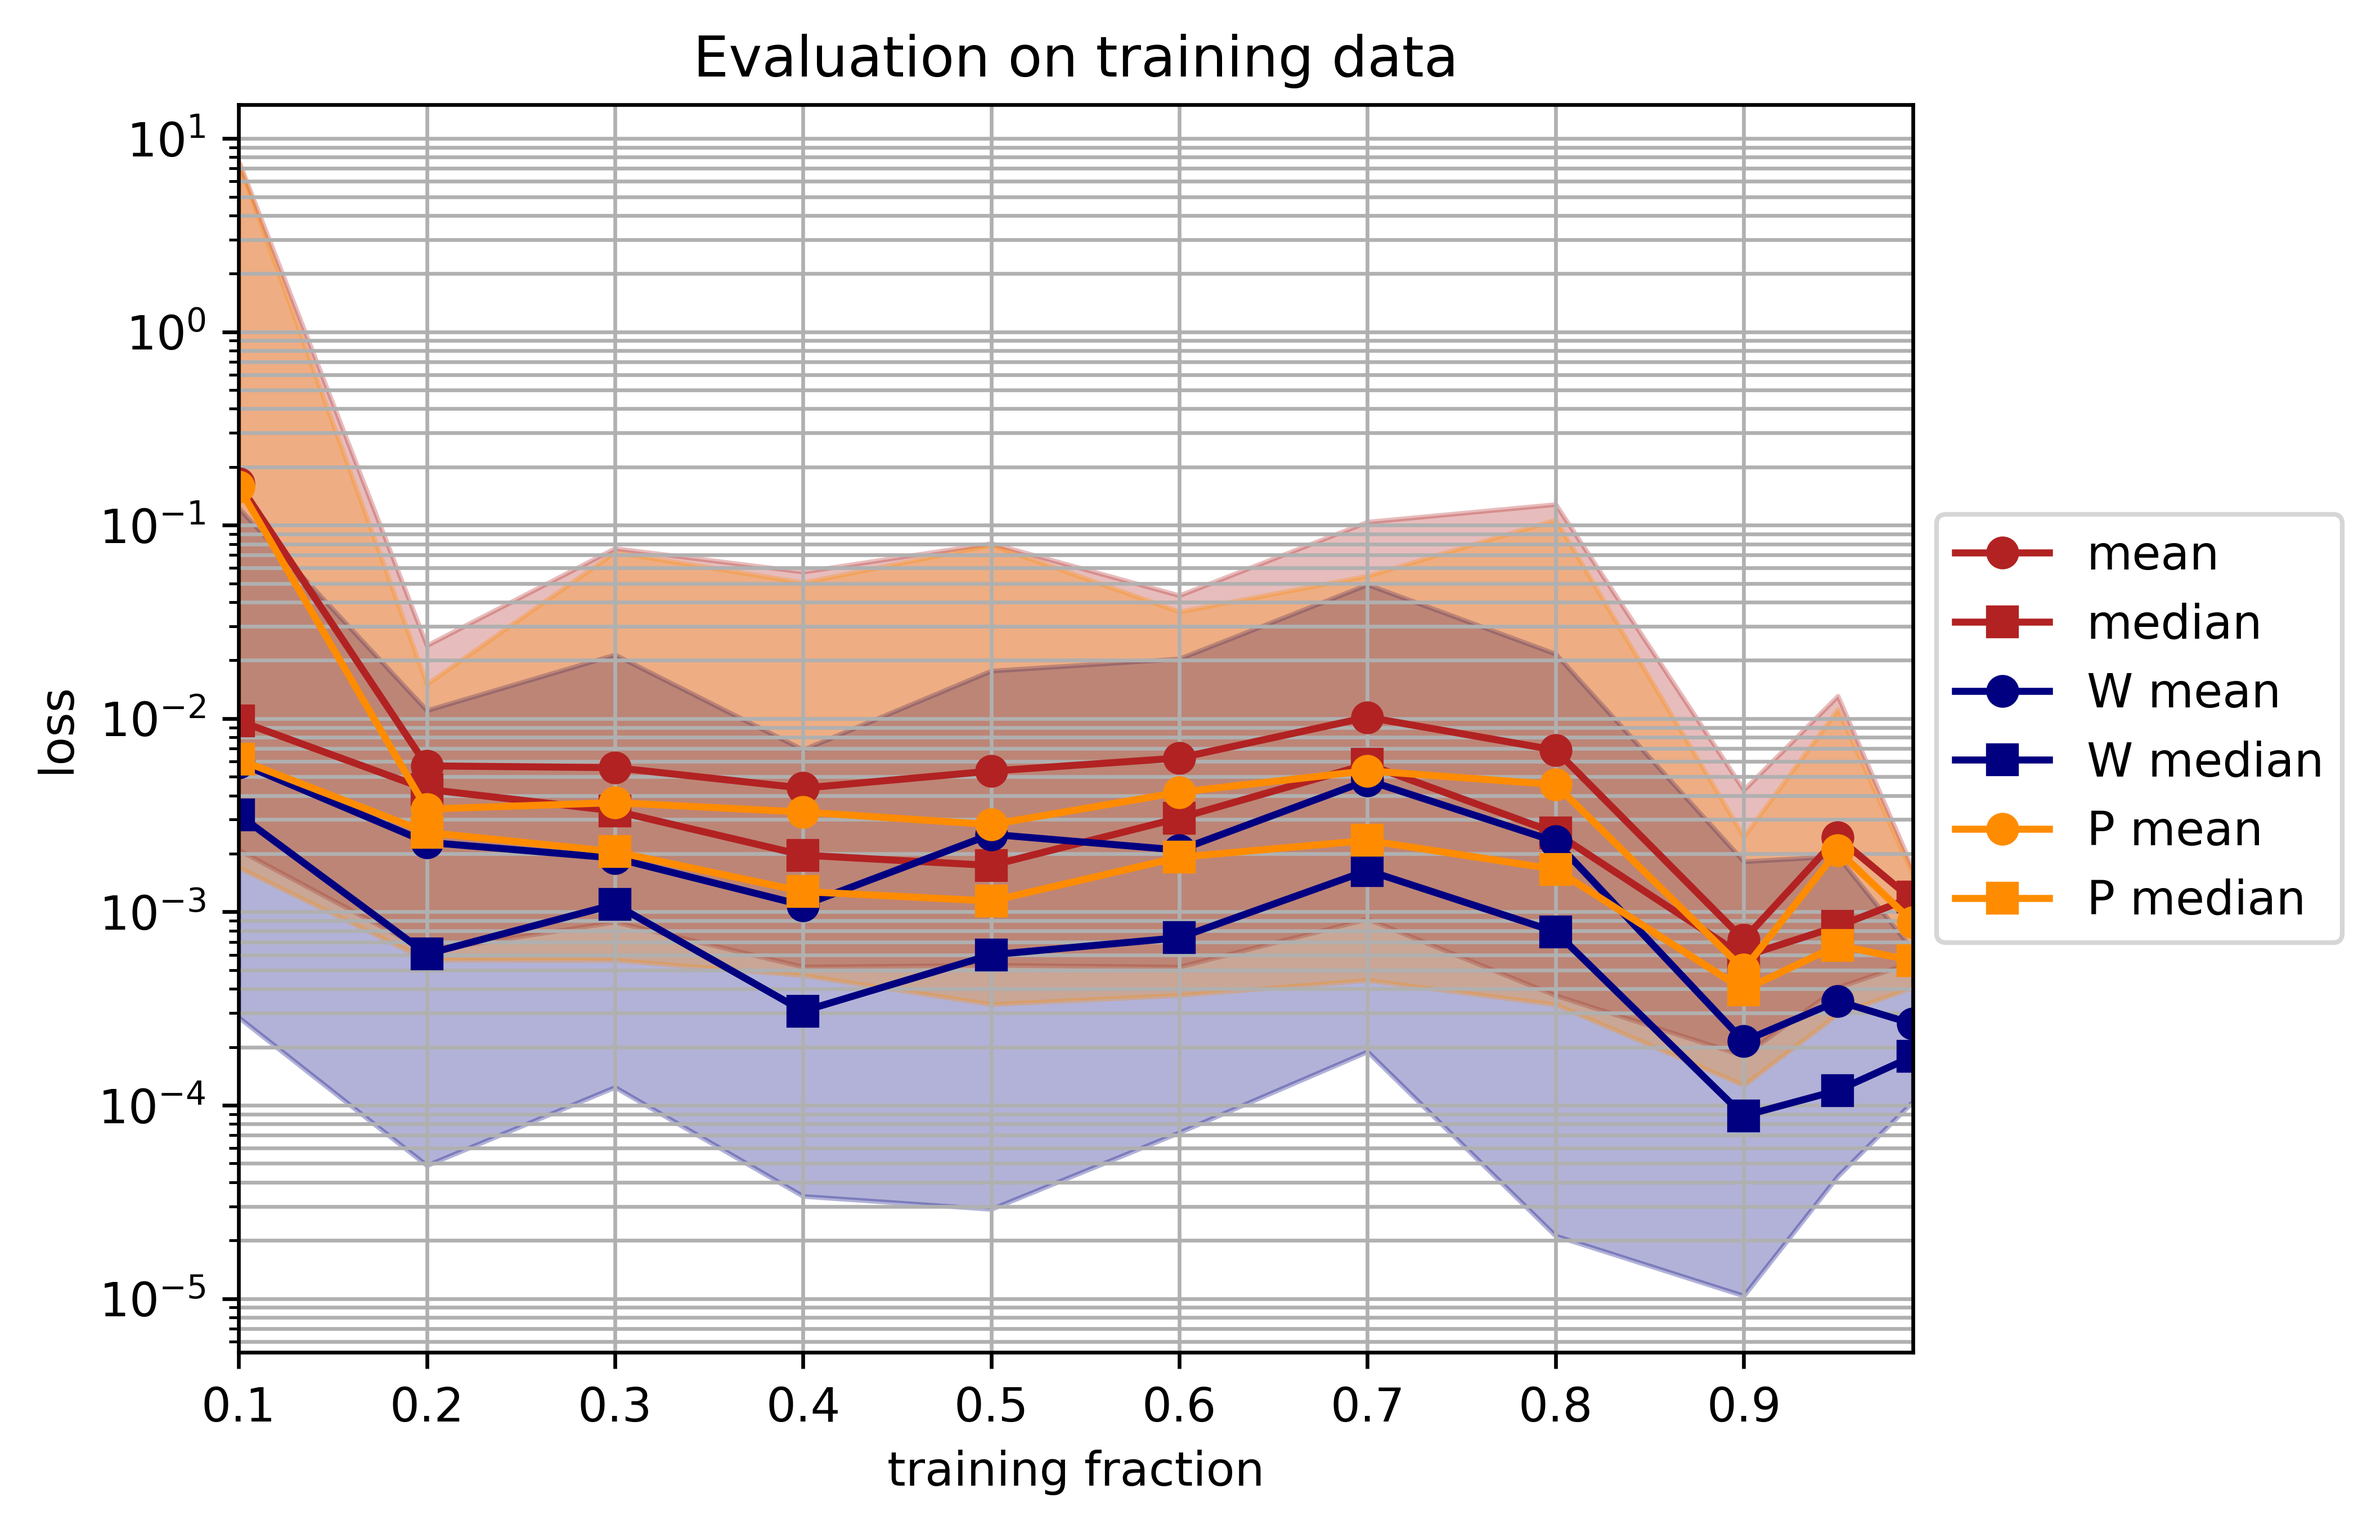
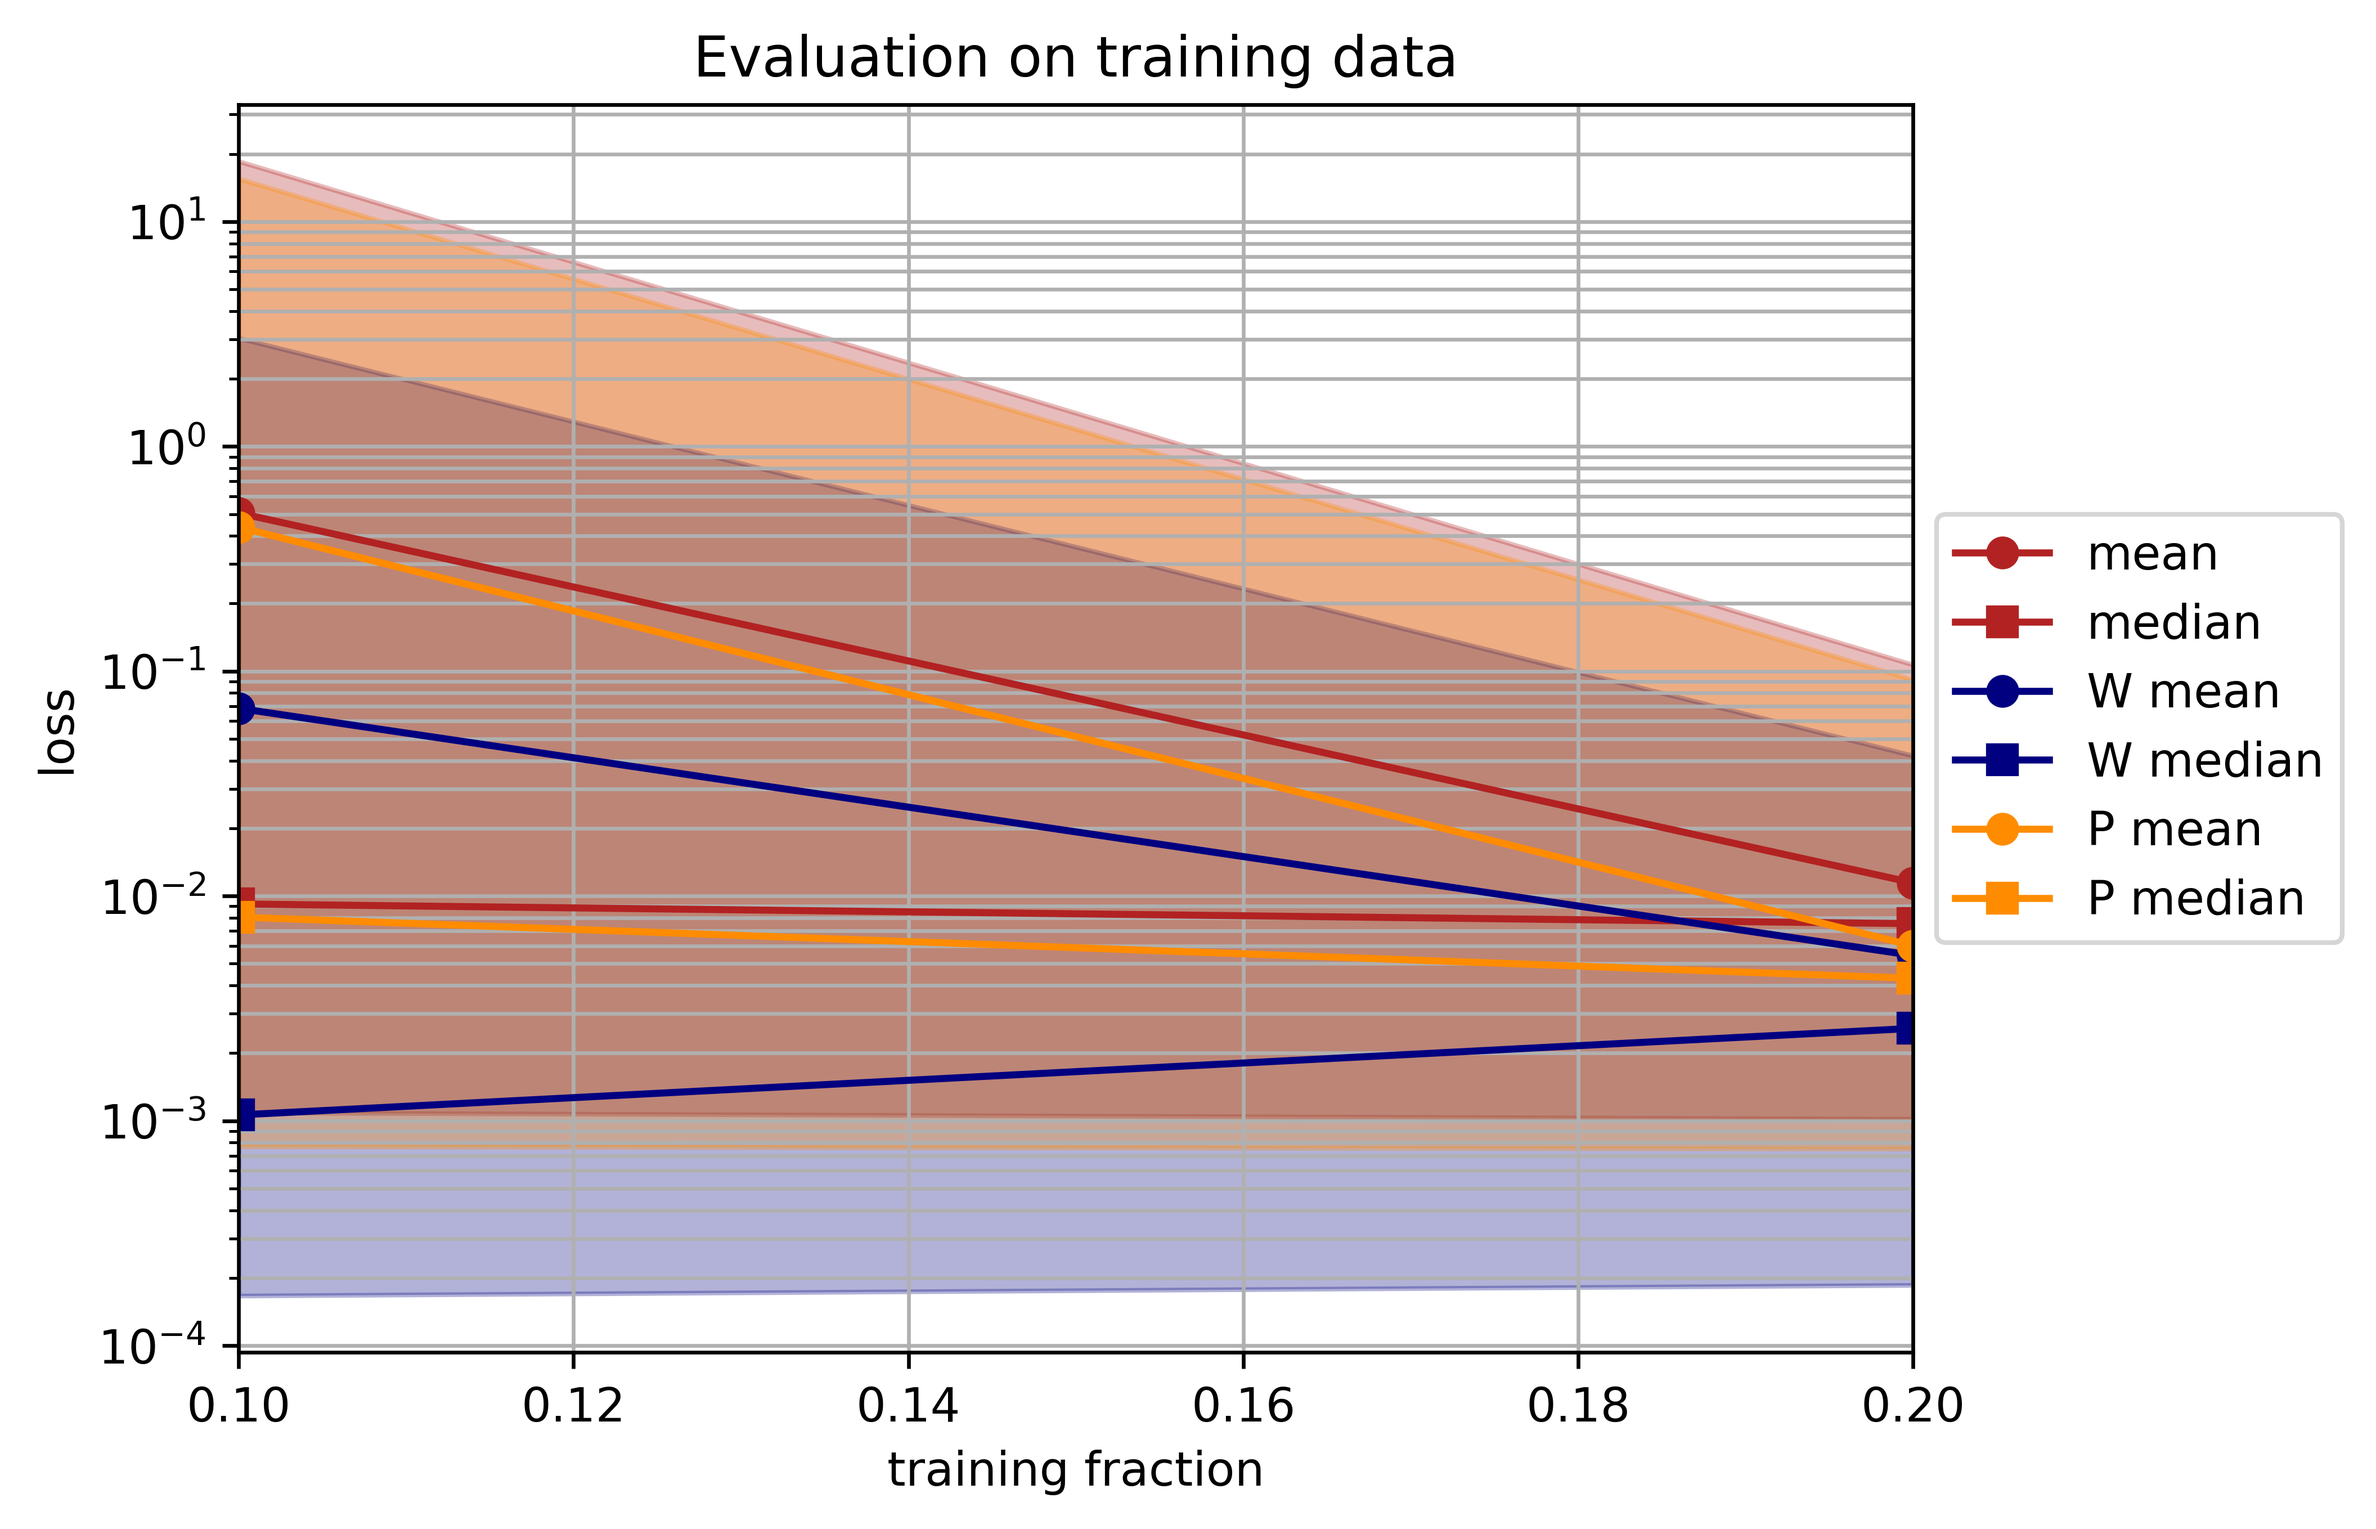
Fixed plot issue
The plots for training and testing loss used to show the same content,
because of an error in the code. For better readibility parts of the
post processing and the evalutation was moved to functions.

Results for the losses for different test train splits can now be
imported from csv files and plotted

diff --git a/02_hyperelasticity_I/main_concentric_sampling.py b/02_hyperelasticity_I/main_concentric_sampling.py
@@ -20,28 +20,38 @@ import tensorflow as tf
 import pandas as pd
 import datetime
 now = datetime.datetime.now
+print("Num GPUs Available: ", len(tf.config.list_physical_devices('GPU')))
+print(tf.keras.backend.floatx())
+tf.keras.backend.set_floatx('float64')
 
 # %% Own modules
 import modules.data as ld
 import modules.training as training
+import modules.plots as pl
 
 # %%
 '''
-Training
+Parameter definition
 
 '''
-
+#
 
 FNUM = 100
-test_train_split = np.array([0.1,0.2,0.3,0.4,0.5,0.6,0.7,0.8,0.9,0.95,0.99])
-#test_train_split = np.array([0.1])
-JMAX = 5
+#test_train_split = np.array([0.1,0.2,0.3,0.4,0.5,0.6,0.7,0.8,0.9,0.95,0.99])
+test_train_split = np.array([0.1, 0.2])
+JMAX = 3
 t_type = 'PhysicsAugmented' # 'Naive'
 
 loss_weighting = True
 loss_weights = [1, 1] # only used for physics augmented training
 epochs = 5000
 verbose = 0
+
+#%%
+'''
+Training
+
+'''
 
 NUMSPLITS = test_train_split.size
 
@@ -82,6 +92,8 @@ for i, split in enumerate(test_train_split):
         train_losses[i, j][:,0] = np.sum(train_losses[i,j][:,1:3], axis=1)
         test_losses[i, j][:,0] = np.sum(test_losses[i,j][:,1:3], axis=1)
 
+#%%
+# concat all splits because we cant to compoute the average loss of all runs
 tmp = np.array([np.concatenate(train_losses[i,:]) for i in range(NUMSPLITS)])
 mean_train_losses = np.array([np.mean(tmp[i], axis=0) for i in range(NUMSPLITS)])
 median_train_losses = np.array([np.median(tmp[i], axis=0) for i in range(NUMSPLITS)])
@@ -97,98 +109,56 @@ min_test_losses = np.array([np.min(tmp[i], axis=0) for i in range(NUMSPLITS)])
 t2 = now()
 print('it took', t2 - t1, '(sec) to calibrate and evaluate all models')
 
-#%%
-'''
-Plots
-
-'''
-
-alpha = 0.3
-
-# training
-fig = plt.figure(dpi=600)
-if t_type == 'PhysicsAugmented':
-    plt.semilogy(test_train_split,mean_train_losses[:,0], color='firebrick', marker='o', label='mean')
-    plt.semilogy(test_train_split,median_train_losses[:,0], color='firebrick', marker='s', label='median')
-    plt.fill_between(test_train_split, max_train_losses[:,0], min_train_losses[:,0], color='firebrick', alpha=alpha)
-    
-    plt.semilogy(test_train_split,mean_train_losses[:,1], color='navy', marker='o', label='W mean')
-    plt.semilogy(test_train_split,median_train_losses[:,1], color='navy', marker='s', label='W median')
-    plt.fill_between(test_train_split, max_train_losses[:,1], min_train_losses[:,1], color='navy', alpha=alpha)
-
-    plt.semilogy(test_train_split,mean_train_losses[:,2], color='darkorange', marker='o', label='P mean')
-    plt.semilogy(test_train_split,median_train_losses[:,2], color='darkorange', marker='s', label='P median')
-    plt.fill_between(test_train_split, max_train_losses[:,2], min_train_losses[:,2], color='darkorange', alpha=alpha)
-
-else:
-    plt.semilogy(test_train_split, mean_train_losses[:,0], color='firebrick', marker='o', label='mean')
-    plt.semilogy(test_train_split, median_train_losses[:,0], color='firebrick', marker='s', label='median')
-    plt.fill_between(test_train_split, max_train_losses[:,0], min_train_losses[:,0], color='firebrick', alpha=alpha)
-plt.title('Evaluation on training data')
-plt.xlabel('training fraction')
-plt.ylabel('loss')
-plt.xlim(np.min(test_train_split), np.max(test_train_split))
-plt.grid(True, which='both')
-plt.legend(loc='center left', bbox_to_anchor=(1, 0.5))
-plt.savefig('images/training_loss.png', dpi=fig.dpi, bbox_inches='tight')
-
-
-# test
-fig = plt.figure(dpi=600)
-if t_type == 'PhysicsAugmented':
-    plt.semilogy(test_train_split,mean_test_losses[:,0], color='firebrick', marker='o', label='mean')
-    plt.semilogy(test_train_split,median_test_losses[:,0], color='firebrick', marker='s', label='median')
-    plt.fill_between(test_train_split, max_test_losses[:,0], min_test_losses[:,0], color='firebrick', alpha=alpha)
-    
-    plt.semilogy(test_train_split,mean_test_losses[:,1], color='navy', marker='o', label='W mean')
-    plt.semilogy(test_train_split,median_test_losses[:,1], color='navy', marker='s', label='W median')
-    plt.fill_between(test_train_split, max_test_losses[:,1], min_test_losses[:,1], color='navy', alpha=alpha)
-
-    plt.semilogy(test_train_split,mean_test_losses[:,2], color='darkorange', marker='o', label='P mean')
-    plt.semilogy(test_train_split,median_test_losses[:,2], color='darkorange', marker='s', label='P median')
-    plt.fill_between(test_train_split, max_test_losses[:,2], min_test_losses[:,2], color='darkorange', alpha=alpha)
-
-else:
-    plt.semilogy(test_train_split, mean_test_losses[:,0], color='firebrick', marker='o', label='mean')
-    plt.semilogy(test_train_split, median_test_losses[:,0], color='firebrick', marker='s', label='median')
-    plt.fill_between(test_train_split, max_test_losses[:,0], min_test_losses[:,0], color='firebrick', alpha=alpha)
-
-plt.title('Evaluation on training data')
-plt.xlabel('training fraction')
-plt.ylabel('loss')
-plt.xlim(np.min(test_train_split), np.max(test_train_split))
-plt.grid(True, which='both')
-plt.legend(loc='center left', bbox_to_anchor=(1, 0.5))
-plt.savefig('images/training_loss.png', dpi=fig.dpi, bbox_inches='tight')
-plt.savefig('images/test_loss.png', dpi=fig.dpi, bbox_inches='tight')
-
-plt.show()
 
 # %%
 """
 Save results to file
 
 """
-df_train = pd.concat([pd.DataFrame(mean_train_losses),
-                    pd.DataFrame(median_train_losses),
-                    pd.DataFrame(min_train_losses),
-                    pd.DataFrame(max_train_losses)],
-                    keys=('mean', 'median', 'min', 'max'))
-df_train.columns = ['total', 'function', 'gradient']
-df_train['split'] = np.tile(test_train_split, 4)
-df_train = df_train[['split', 'total', 'function', 'gradient']]
 
-df_test = pd.concat([pd.DataFrame(mean_test_losses),
-                    pd.DataFrame(median_test_losses),
-                    pd.DataFrame(min_test_losses),
-                    pd.DataFrame(max_test_losses)],
+def save_to_df(means, medians, mins, maxs):
+    df = pd.concat([pd.DataFrame(means),
+                    pd.DataFrame(medians),
+                    pd.DataFrame(mins),
+                    pd.DataFrame(maxs)],
                     keys=('mean', 'median', 'min', 'max'))
-df_test.columns = ['total', 'function', 'gradient']
-df_test['split'] = np.tile(test_train_split, 4)
-df_test = df_train[['split', 'total', 'function', 'gradient']]
+    df.columns = ['total', 'function', 'gradient']
+    df['split'] = np.tile(test_train_split, 4)
+    df = df[['split', 'total', 'function', 'gradient']]
+    return df
+
+df_train = save_to_df(mean_train_losses,
+                        median_train_losses,
+                        min_train_losses,
+                        max_train_losses)
+
+df_test = save_to_df(mean_test_losses,
+                        median_test_losses,
+                        min_test_losses,
+                        max_test_losses)
 
 df_train.to_csv('out/train_losses.csv', index=False)
 df_test.to_csv('out/test_losses.csv', index=False)
+
+# %%
+'''
+Plot losses from csv file
+
+'''
+
+df_train = pd.read_csv('out/train_losses.csv')
+df_test = pd.read_csv('out/test_losses.csv')
+
+if t_type  == 'PhysicsAugmented':
+    title = 'Evaluation on training data'
+    pl.plot_loss_over_train_split_physics_augmented(df_train, title=title, fname='train_loss')
+    title = 'Evaluation on test data'
+    pl.plot_loss_over_train_split_physics_augmented(df_test, title=title, fname='test_loss')
+elif t_type == 'Naive':
+    title = 'Evaluation on training data'
+    pl.plot_loss_over_train_split_naive(df_train, title=title, fname='train_loss')
+    title = 'Evaluation on test data'
+    pl.plot_loss_over_train_split_naive(df_test, title=title, fname='test_loss')
 
 # %%
 """

diff --git a/02_hyperelasticity_I/modules/plots.py b/02_hyperelasticity_I/modules/plots.py
@@ -307,3 +307,53 @@ def plot_calibration_loss(h):
     plt.grid(which='both')
     plt.legend(loc='center left', bbox_to_anchor=(1, 0.5))
     fig.savefig('images/loss.png', dpi=fig.dpi, bbox_inches='tight')
+
+def plot_loss_over_train_split_physics_augmented(df, title, fname):
+    ''' Plots the mean, median, maximum and minimum loss over the test training split
+    for physics augmented training '''
+    # settings
+    alpha = 0.3
+
+    NUMSPLITS = int(df.split.size / 4)
+    fig = plt.figure(dpi=600)
+    plt.semilogy(df.split[:NUMSPLITS],df.total[:NUMSPLITS], color='firebrick', marker='o', label='mean')
+    plt.semilogy(df.split[:NUMSPLITS],df.total[NUMSPLITS:2 * NUMSPLITS], color='firebrick', marker='s', label='median')
+    plt.fill_between(df.split[:NUMSPLITS], df.total[2 * NUMSPLITS: 3 * NUMSPLITS], df.total[3 * NUMSPLITS:], color='firebrick', alpha=alpha)
+    
+    plt.semilogy(df.split[:NUMSPLITS],df.function[:NUMSPLITS], color='navy', marker='o', label='W mean')
+    plt.semilogy(df.split[:NUMSPLITS],df.function[NUMSPLITS:2 * NUMSPLITS], color='navy', marker='s', label='W median')
+    plt.fill_between(df.split[:NUMSPLITS], df.function[2 * NUMSPLITS: 3 * NUMSPLITS], df.function[3 * NUMSPLITS:], color='navy', alpha=alpha)
+
+    plt.semilogy(df.split[:NUMSPLITS],df.gradient[:NUMSPLITS], color='darkorange', marker='o', label='P mean')
+    plt.semilogy(df.split[:NUMSPLITS],df.gradient[NUMSPLITS:2 * NUMSPLITS], color='darkorange', marker='s', label='P median')
+    plt.fill_between(df.split[:NUMSPLITS], df.gradient[2 * NUMSPLITS: 3 * NUMSPLITS], df.gradient[3 * NUMSPLITS:], color='darkorange', alpha=alpha)
+
+    plt.title(title)
+    plt.xlabel('training fraction')
+    plt.ylabel('loss')
+    plt.xlim(np.min(df.split[:NUMSPLITS]), np.max(df.split[:NUMSPLITS]))
+    plt.grid(True, which='both')
+    plt.legend(loc='center left', bbox_to_anchor=(1, 0.5))
+    plt.savefig(f'images/{fname}.png', dpi=fig.dpi, bbox_inches='tight')
+
+plt.show()
+
+def plot_loss_over_train_split_naive(df, title, fname):
+    ''' Plots the mean, median, maximum and minimum loss over the test training split
+    for naive model training '''
+    # settings
+    alpha = 0.3
+
+    NUMSPLITS = int(df.split.size / 4)
+    fig = plt.figure(dpi=600)
+    plt.semilogy(df.split[:NUMSPLITS],df.total[:NUMSPLITS], color='firebrick', marker='o', label='mean')
+    plt.semilogy(df.split[:NUMSPLITS],df.total[NUMSPLITS:2 * NUMSPLITS], color='firebrick', marker='s', label='median')
+    plt.fill_between(df.split[:NUMSPLITS], df.total[2 * NUMSPLITS: 3 * NUMSPLITS], df.total[3 * NUMSPLITS:], color='firebrick', alpha=alpha)
+    
+    plt.title(title)
+    plt.xlabel('training fraction')
+    plt.ylabel('loss')
+    plt.xlim(np.min(df.split[:NUMSPLITS]), np.max(df.split[:NUMSPLITS]))
+    plt.grid(True, which='both')
+    plt.legend(loc='center left', bbox_to_anchor=(1, 0.5))
+    plt.savefig(f'images/{fname}.png', dpi=fig.dpi, bbox_inches='tight')

diff --git a/02_hyperelasticity_I/modules/models.py b/02_hyperelasticity_I/modules/models.py
@@ -150,11 +150,12 @@ class InvariantLayer(layers.Layer):
     def __init__(self):
         super().__init__()
 
+    @tf.autograph.experimental.do_not_convert
     def __call__(self, F, C):
         # transversely isotropic structural tensor
         G_ti = np.array([[4, 0, 0],
-                      [0, 0.5, 0],
-                      [0, 0, 0.5]])
+                            [0, 0.5, 0],
+                            [0, 0, 0.5]])
         # compute invariants
         I1 = tf.linalg.trace(C)
         J = tf.linalg.det(F)
@@ -187,7 +188,7 @@ main: construction of the NN model
 def main(loss_weights, **kwargs):
     """ This creates a Keras model """
     # define input shape
-    xs = tf.keras.Input(shape=(3,3))
+    xs = tf.keras.Input(shape=(3,3), dtype='float32')
     # define which (custom) layers the model uses
     l_nn = make_layer(**kwargs)
     ys = l_nn(xs)
